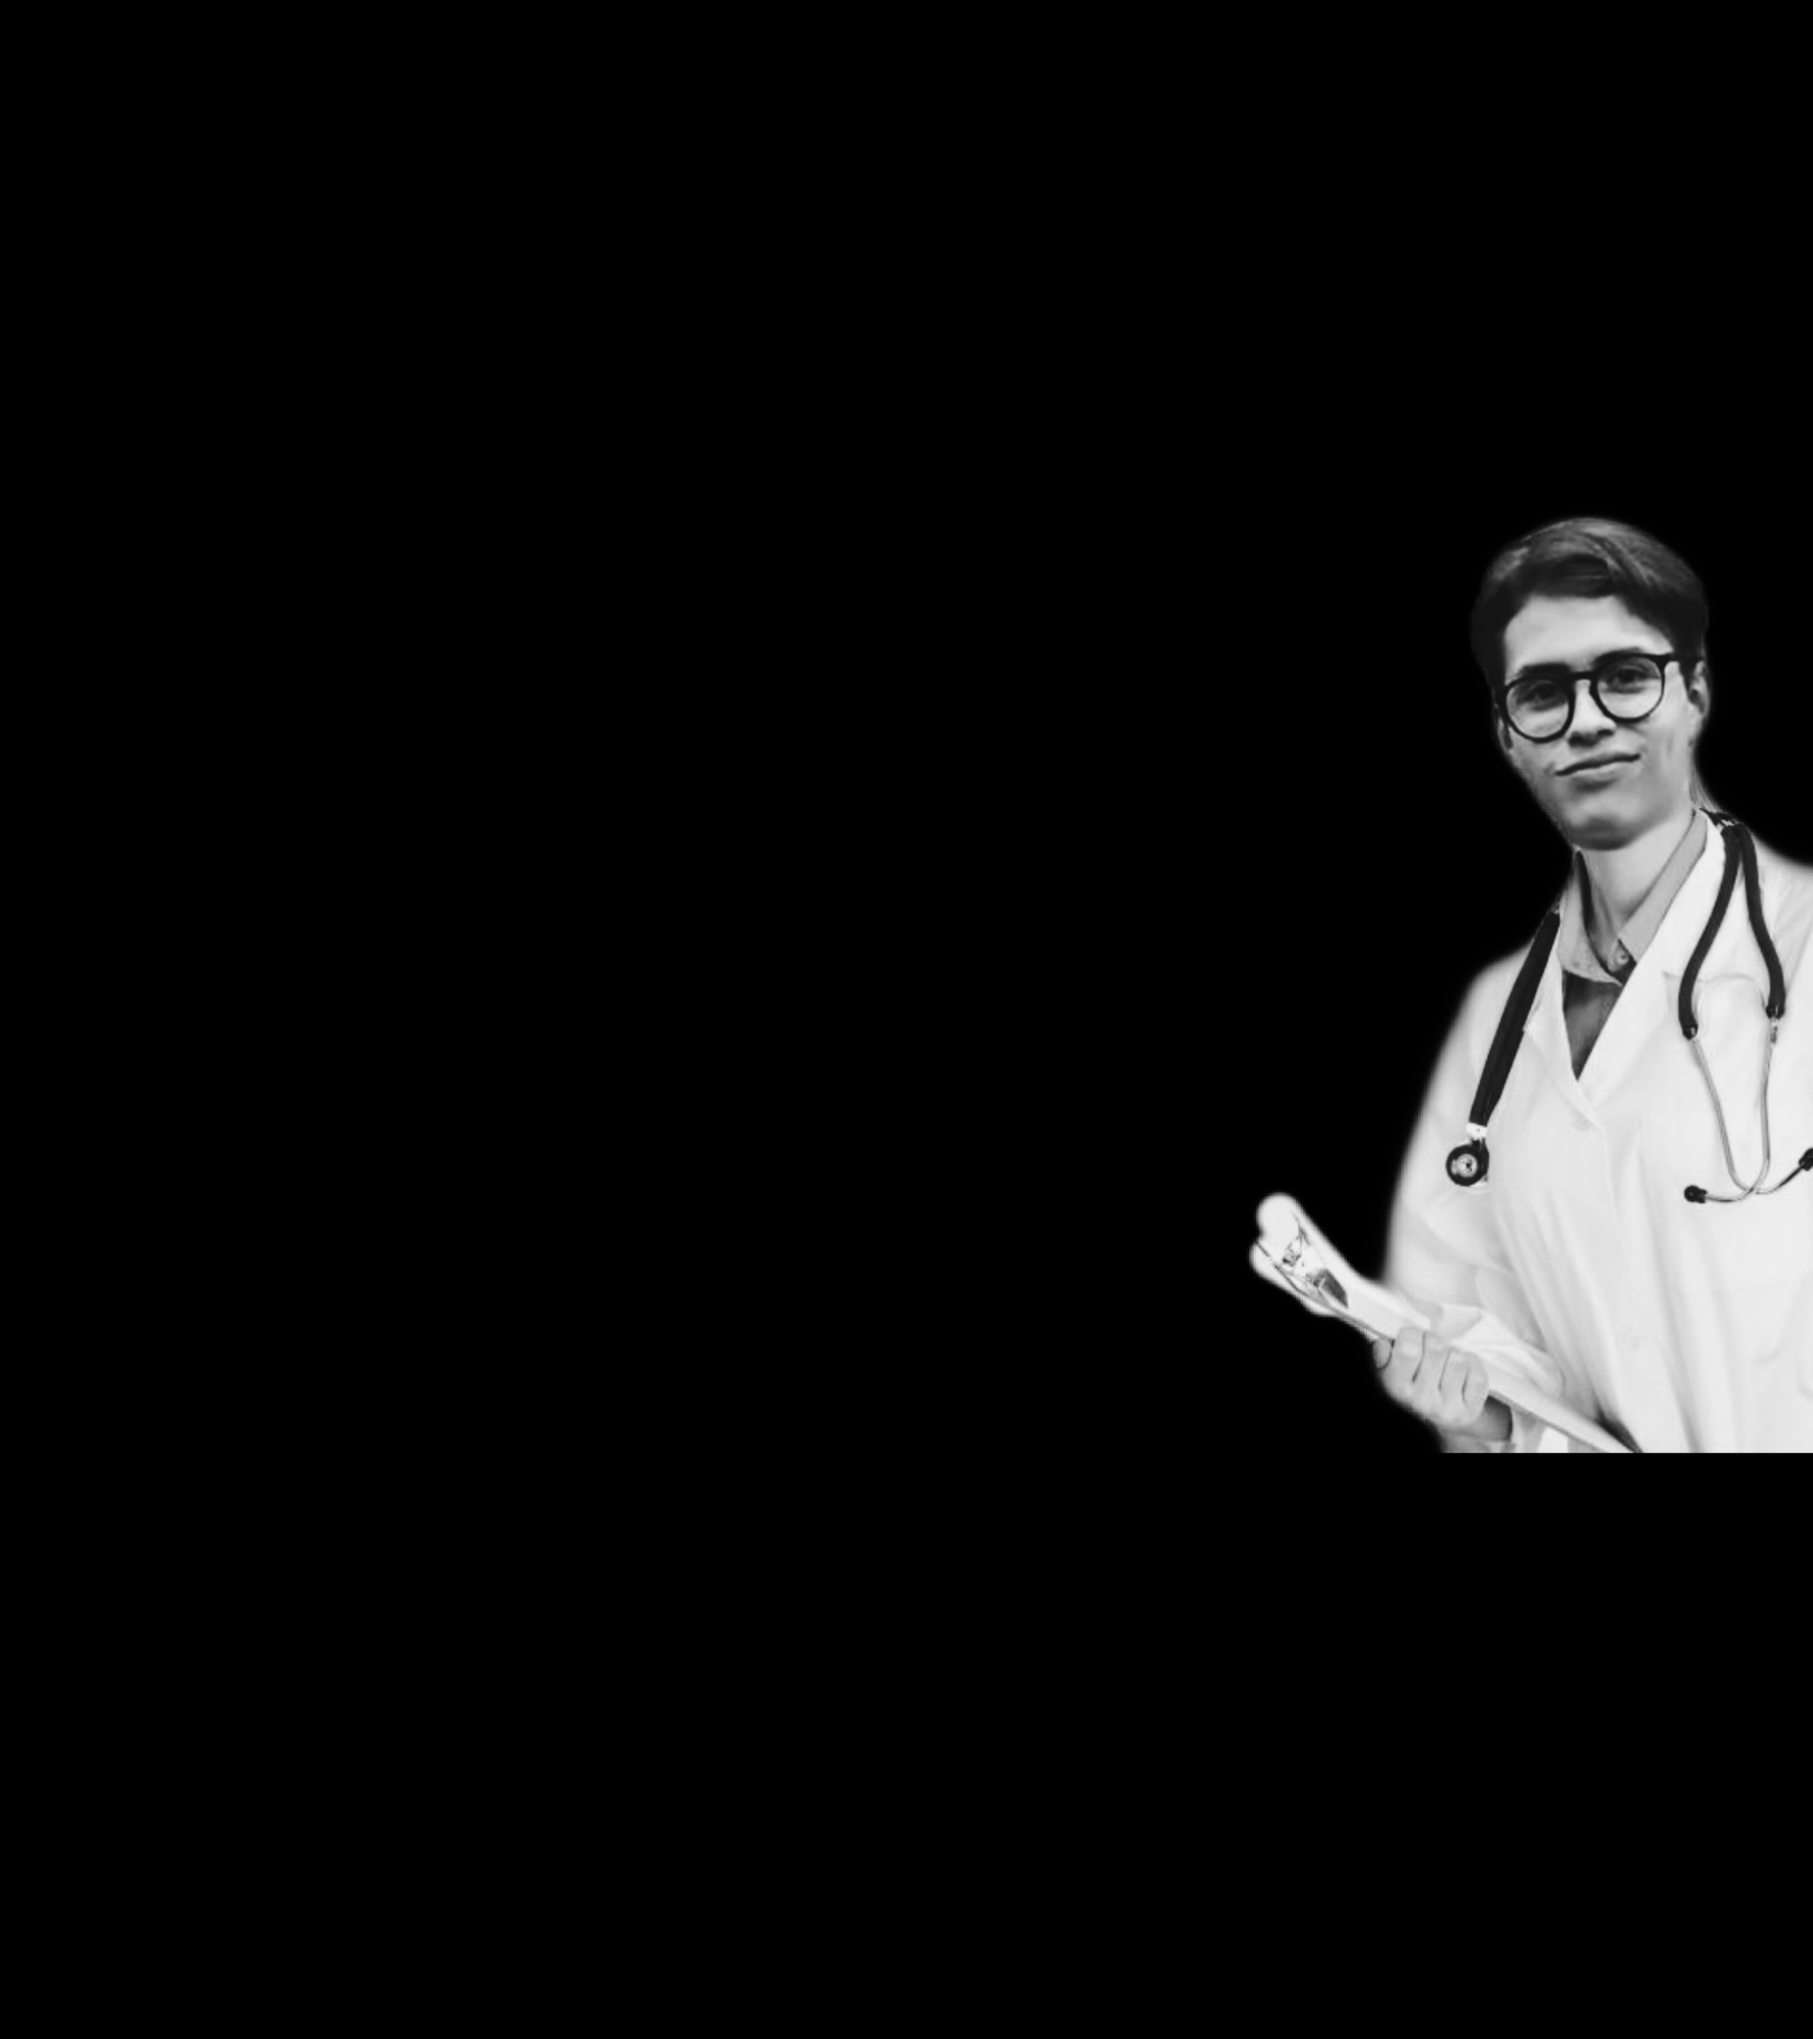
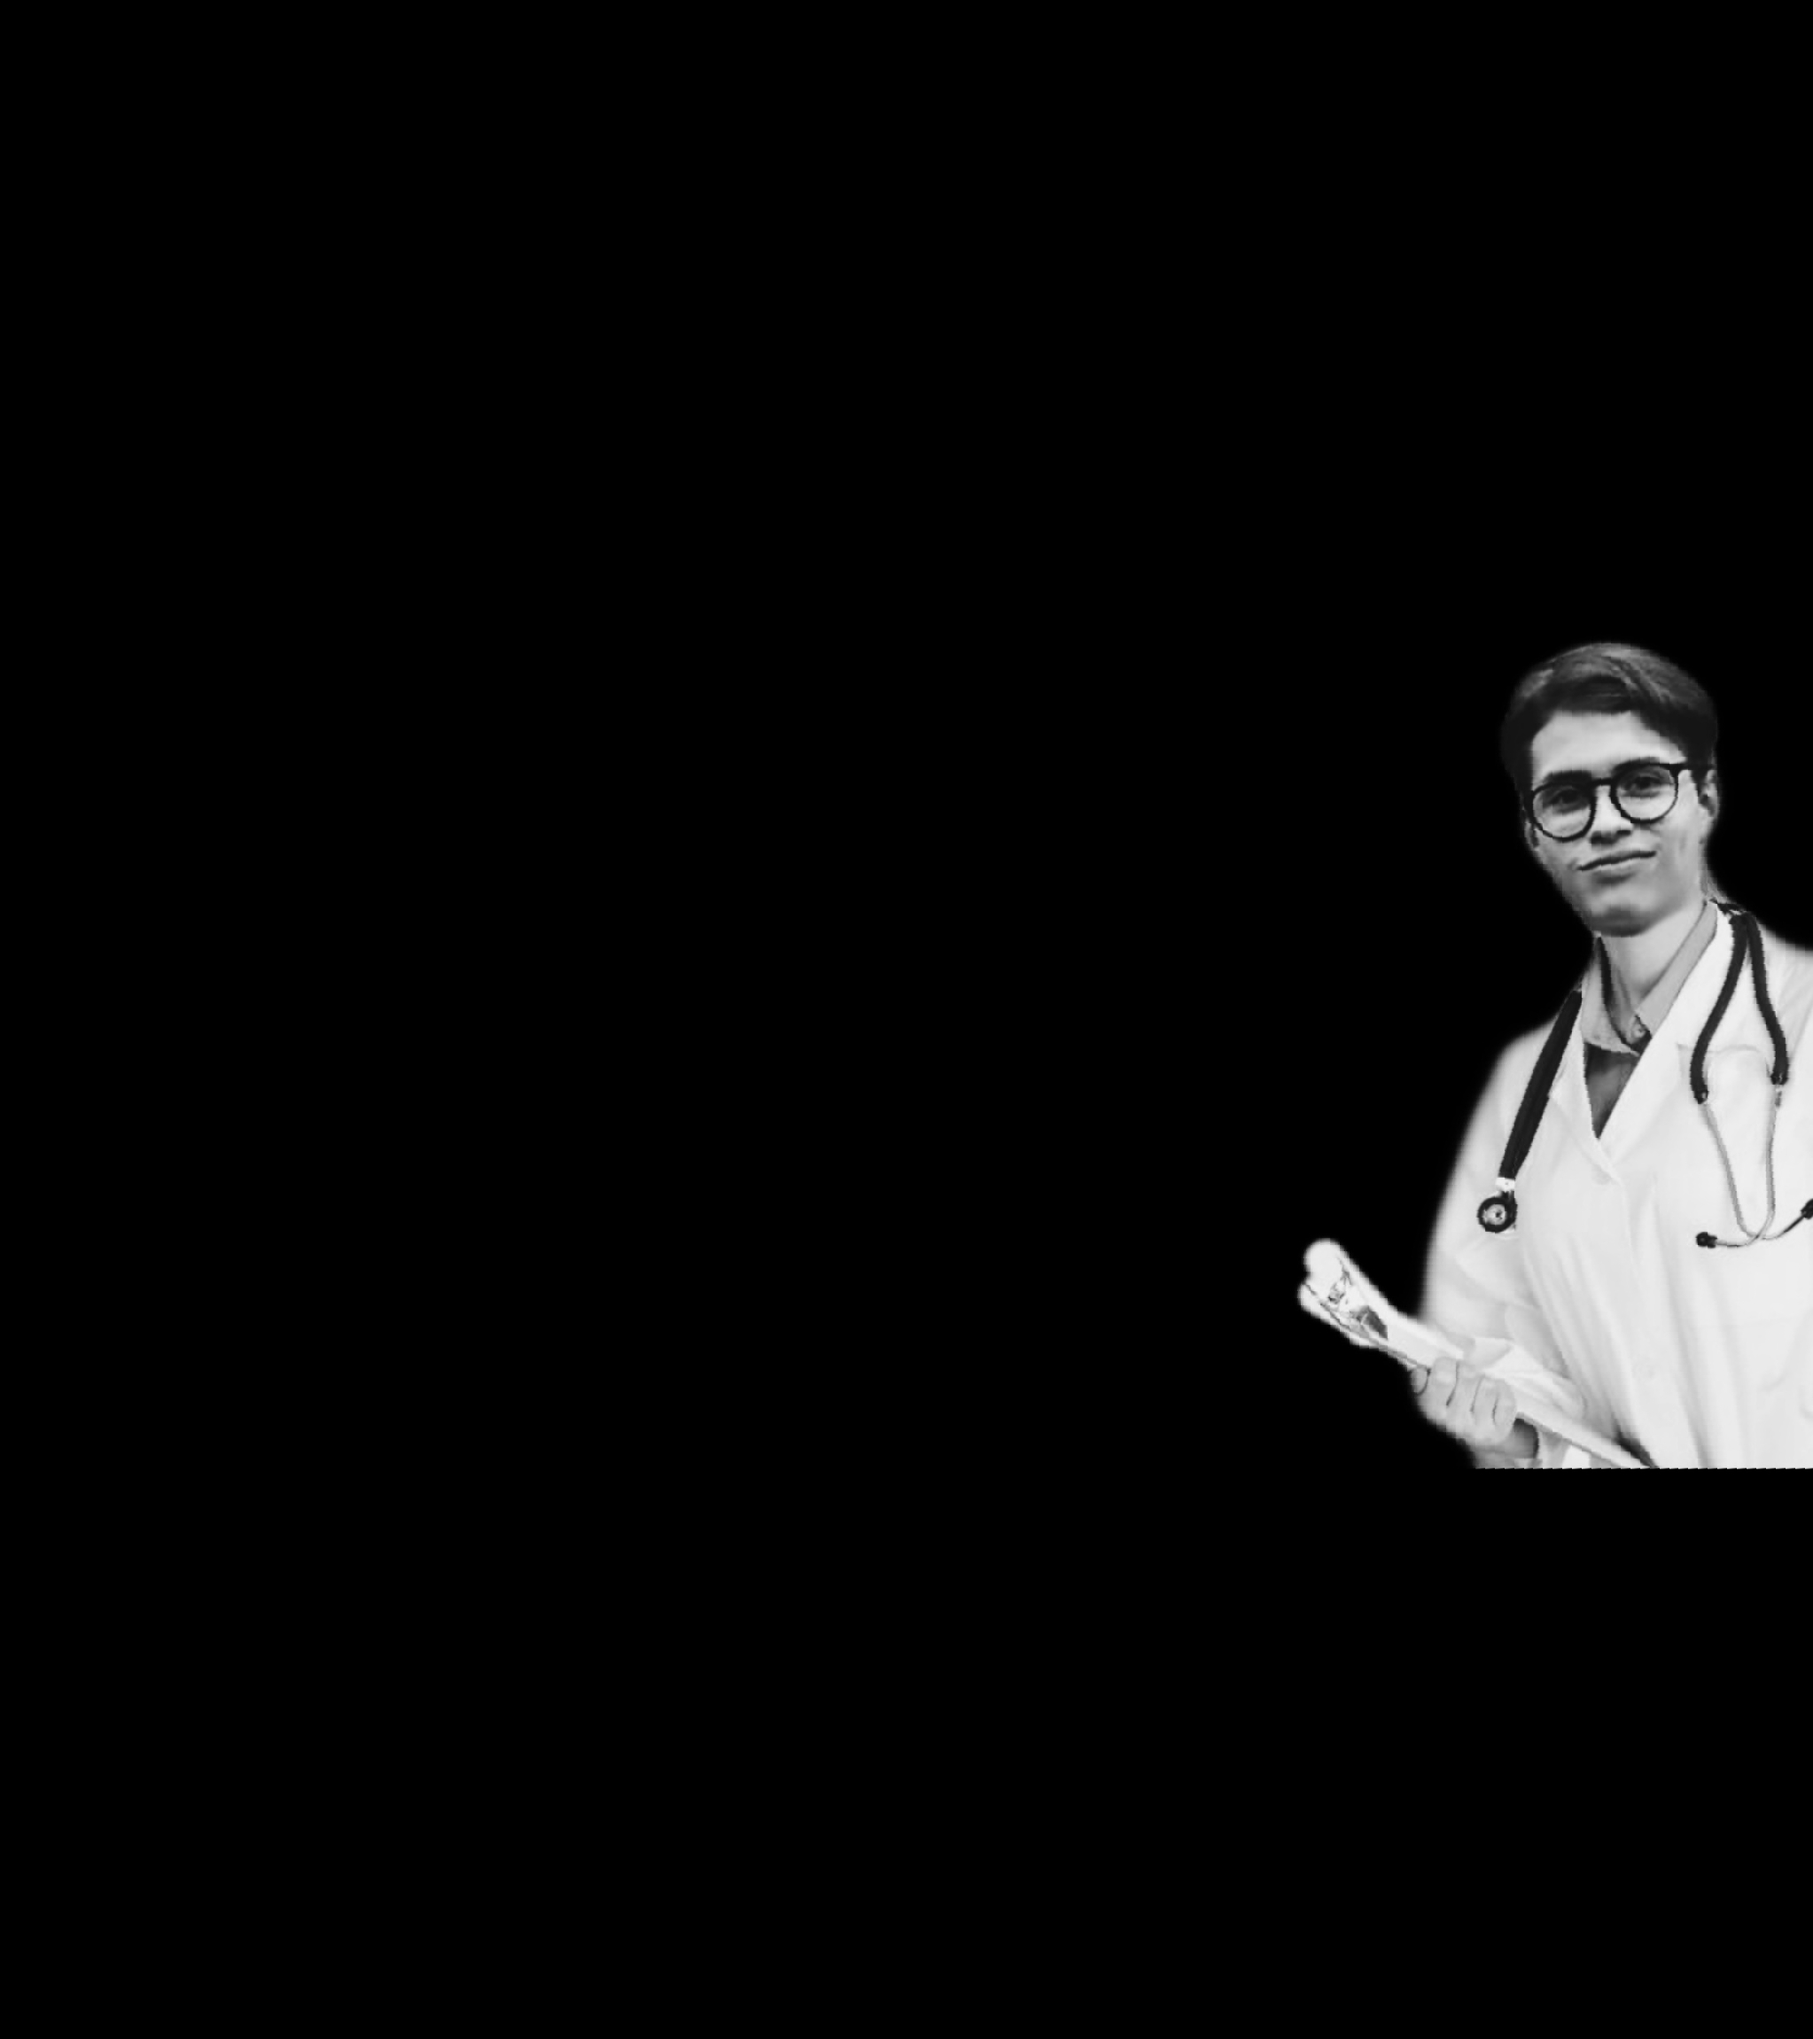
Solucion mainimage, cambiar idioma textos

Changed region(s): [[0.6774, 0.2468, 1.0, 0.7405]]

diff --git a/CentroDeTurnos/wwwroot/css/estilos.css b/CentroDeTurnos/wwwroot/css/estilos.css
@@ -9808,13 +9808,26 @@ a.navbar-brand span.fa {
         background-size: cover;
         background-position: center center;
         /*DESCOMENTAR min-height: 1000px;*/
-        min-height: 1500px;
+        min-height: 700px;
         z-index: 0;
         display: grid;
         align-items: center;
         position: relative;
         margin: auto;
     }
+
+.letra-nunito-texto {
+   color: black; 
+   line-height: 1.4;
+   font-family: 'Nunito', sans-serif;
+}
+
+.letra-nunito-header {
+    color: black;
+    line-height: 1.4;
+    font-family: 'Nunito', sans-serif;
+    -webkit-text-stroke: thin;
+}
 
 @media (max-width: 992px) {
   .w3l-main-banner h3.gallery4-head {
